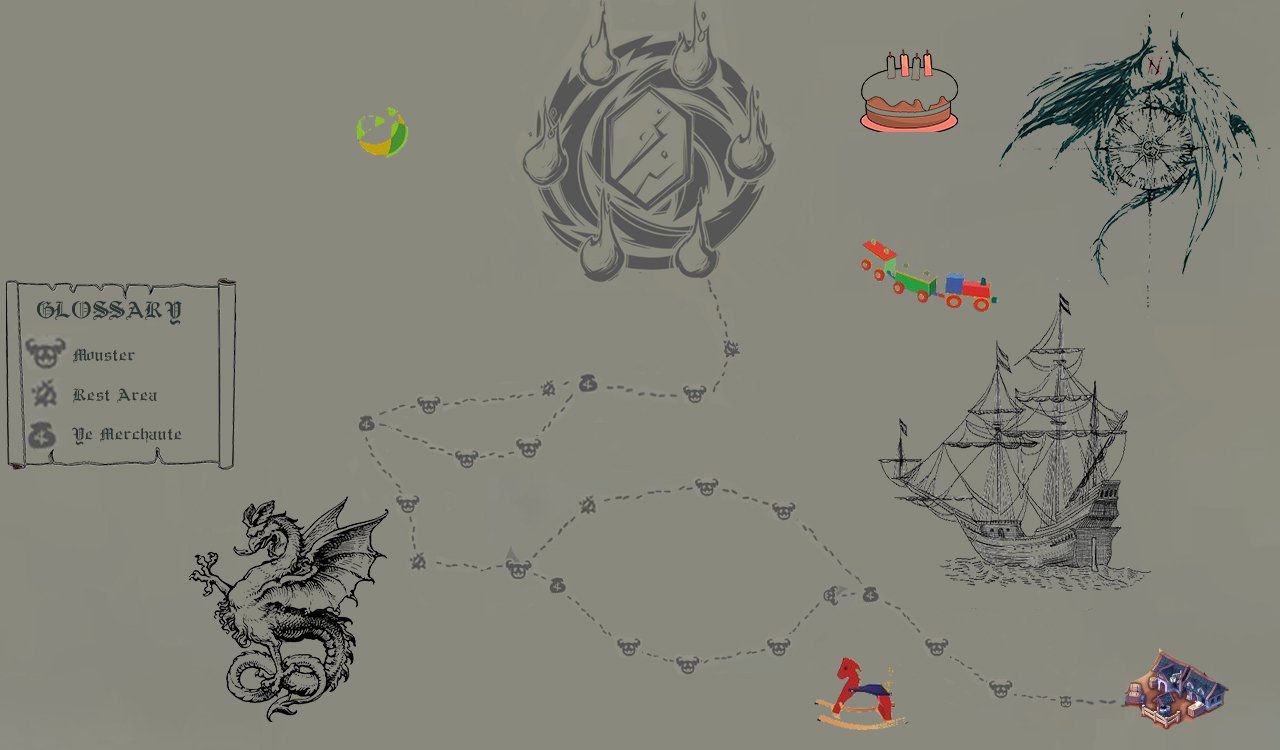
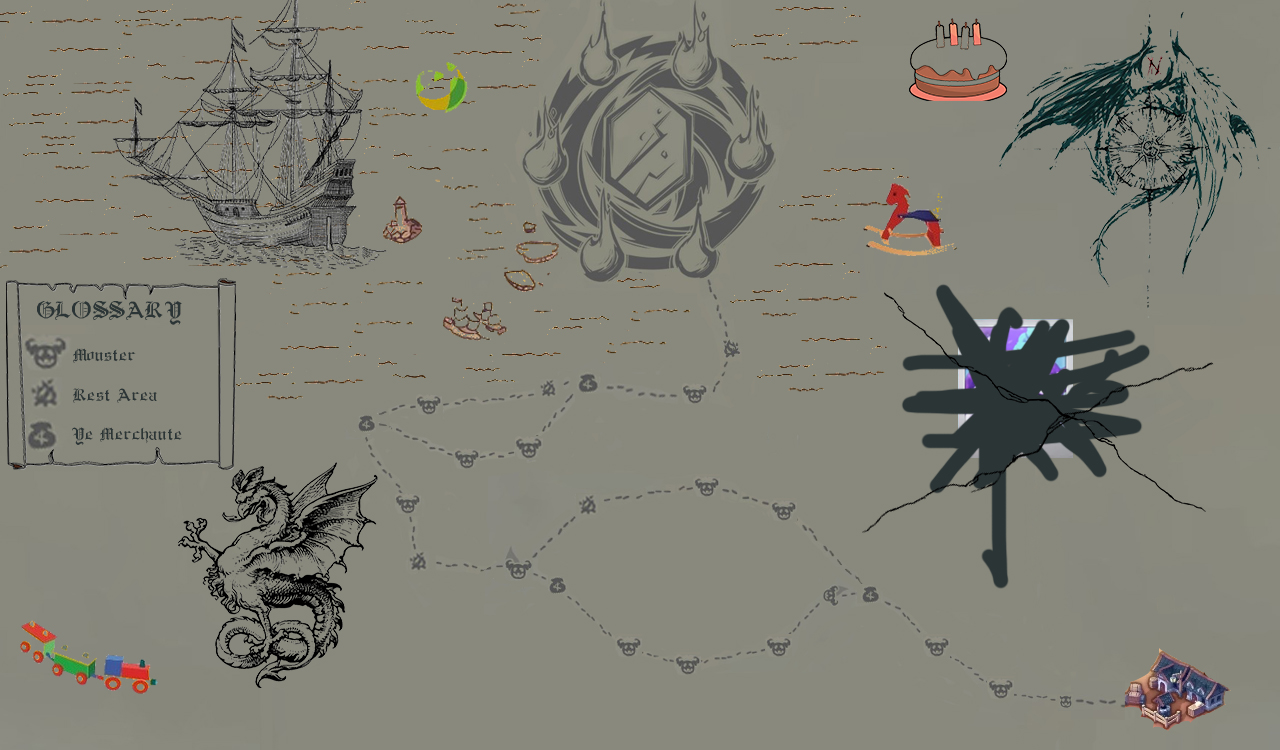
changed map

diff --git a/src/com/diamondcastle/map/Map.java b/src/com/diamondcastle/map/Map.java
@@ -25,7 +25,7 @@ import com.diamondcastle.music.musicPlay;
 
 public class Map extends JPanel{
  
- private Image imgg;
+ private Image imgg, imgg2;
  ArrayList <Map_Button> buttons = new ArrayList<Map_Button>();
  public static int last = CessPool.location.get(CessPool.location.size()-1);
  private int areaWidth;
@@ -41,6 +41,7 @@ public class Map extends JPanel{
 	  this.setFocusable(true);
 
 	  this.imgg = new ImageIcon("resource/images/map.jpg").getImage();
+	  this.imgg2 = new ImageIcon("resource/images/map2nd.jpg").getImage();
 	  this.setLayout(null);
 	  
 	  buttons.add(new Map_Button(1050, 674, 2, false));
@@ -232,6 +233,9 @@ public class Map extends JPanel{
 	 public void paintComponent(Graphics g) {
 	  super.paintComponent(g);
 	  g.drawImage(this.imgg, 0, 0, null);
+	  if(Map.last>=21) {
+		  g.drawImage(this.imgg2, 0, 0, null);
+	  }
 	 }
 	 
 }
